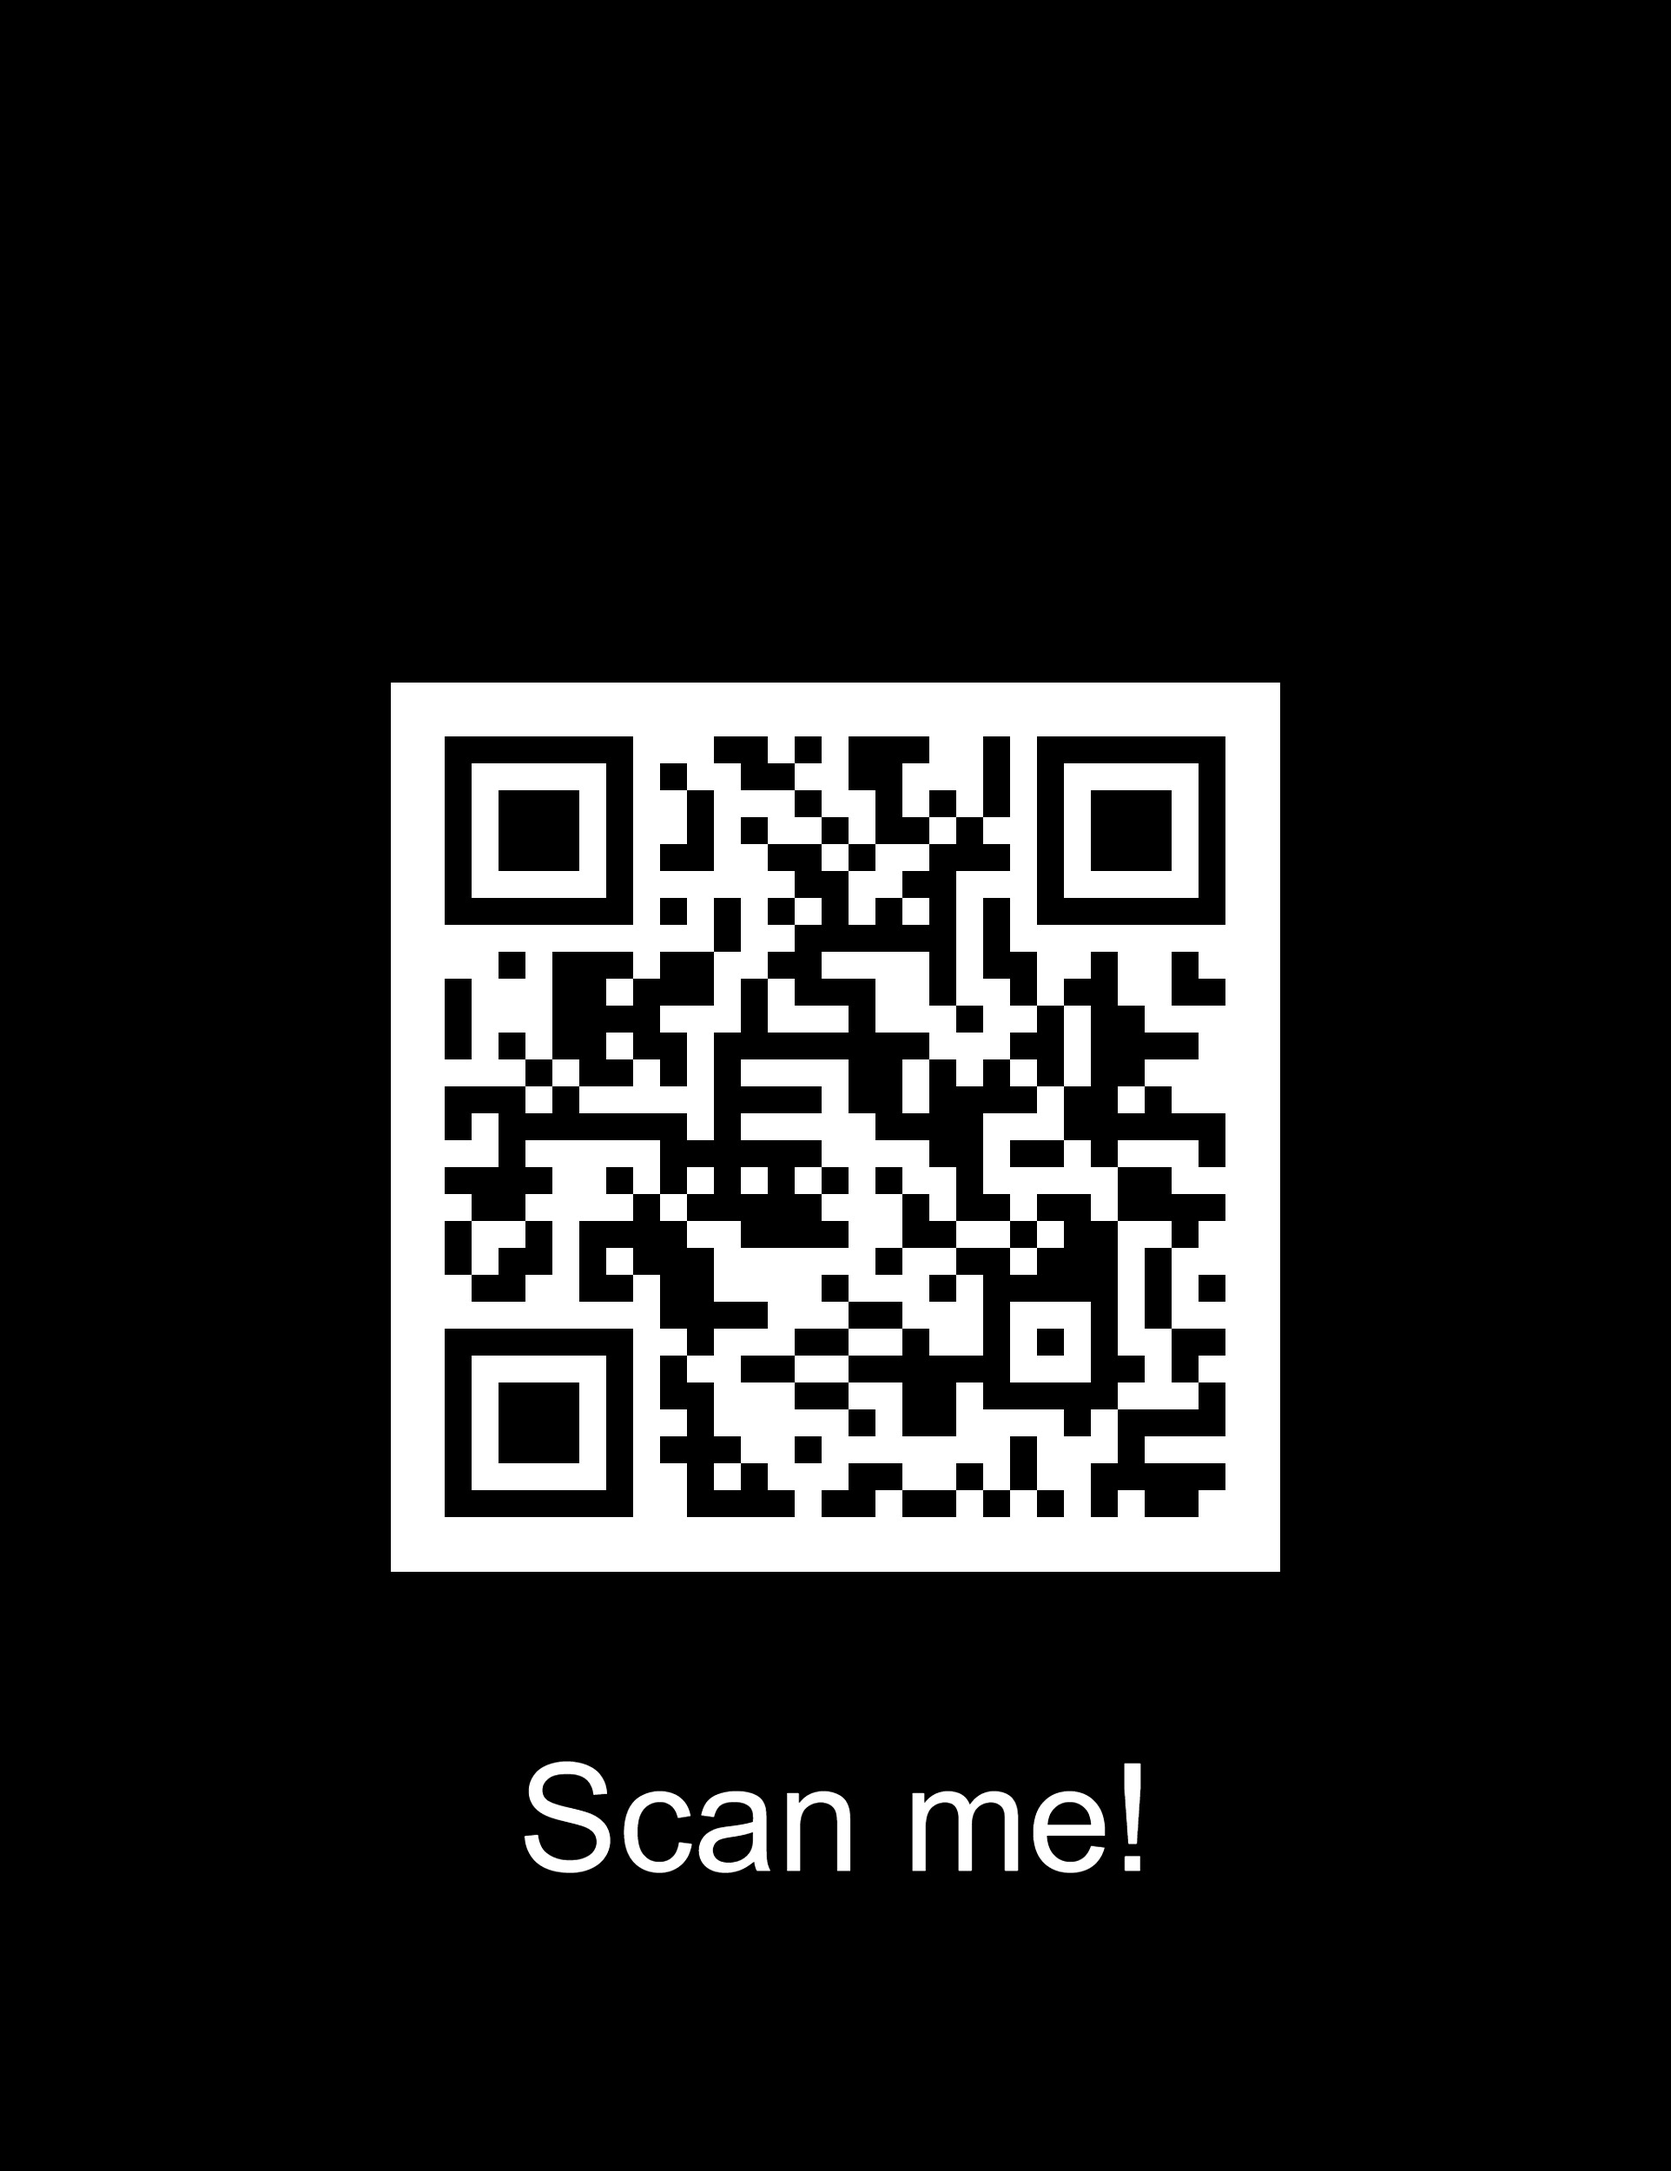
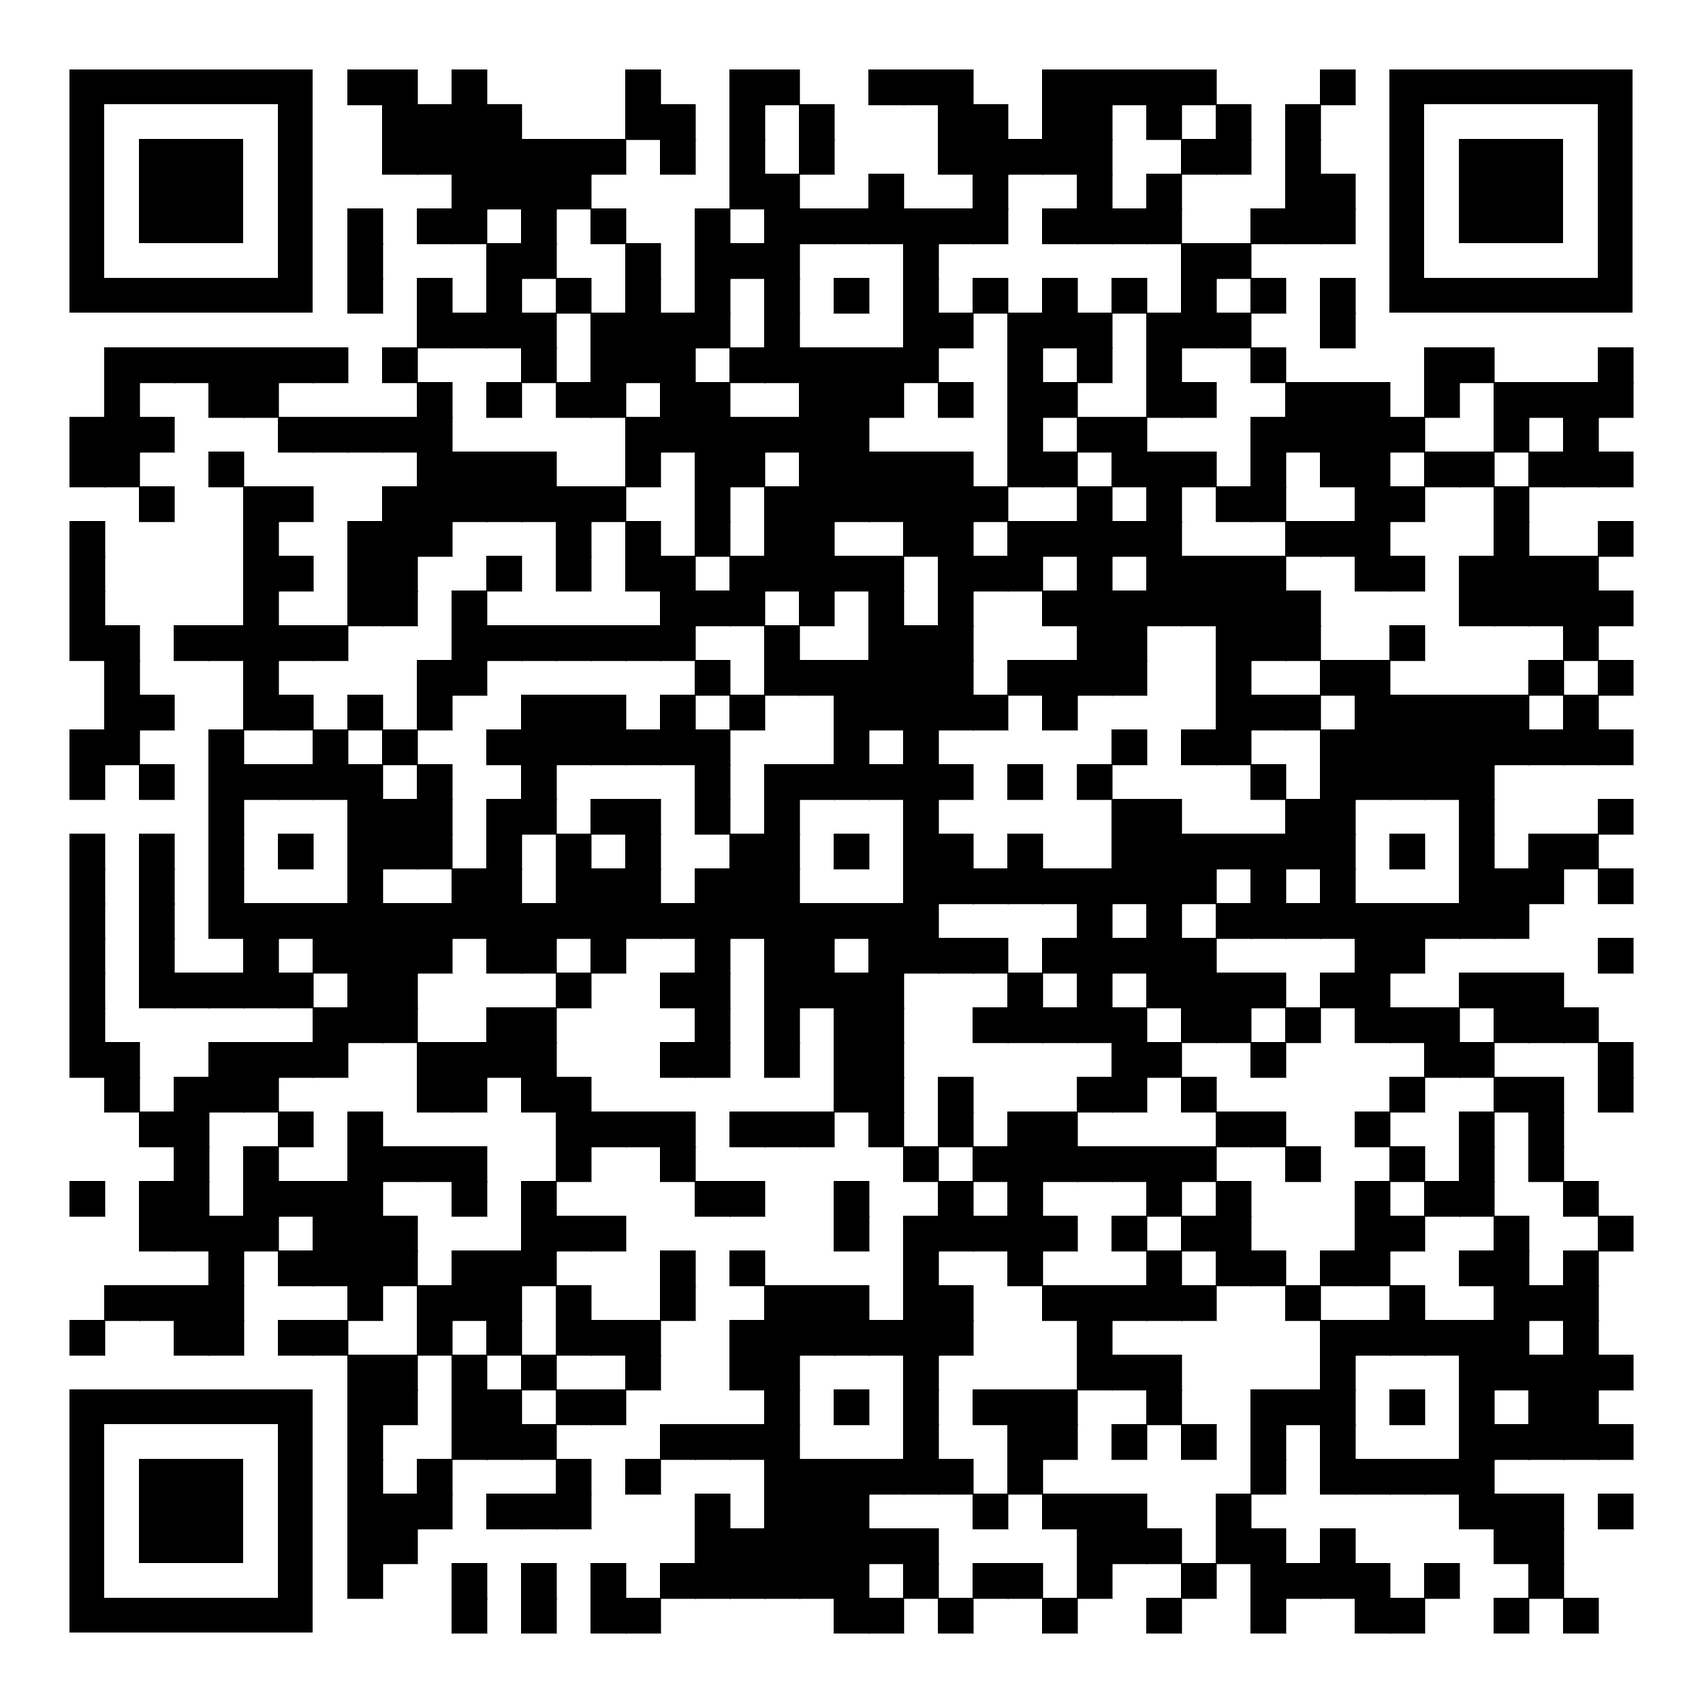
qrcode changes

diff --git a/index.html b/index.html
@@ -99,7 +99,7 @@
           }
         ],
         "sameAs": [
-          "https://www.instagram.com/starhalalmeat",
+          "https://www.instagram.com/star_halal_0786/",
           "https://www.swiggy.com/direct/brand/763324?source=swiggy-direct&subSource=generic"
         ],
         "aggregateRating": {
@@ -1789,7 +1789,7 @@
         <a href="tel:+919999999999">+91 9205955696</a>
       </address>
       <div class="footer-social">
-        <a href="https://instagram.com/starhalalmeat" target="_blank" rel="noopener" aria-label="Star Halal Meat Shop on Instagram">
+        <a href="https://www.instagram.com/star_halal_0786/" target="_blank" rel="noopener" aria-label="Star Halal Meat Shop on Instagram">
           <svg width="15" height="15" viewBox="0 0 24 24" fill="none" stroke="currentColor" stroke-width="1.5" aria-hidden="true"><rect x="2" y="2" width="20" height="20" rx="5"/><path d="M16 11.37A4 4 0 1 1 12.63 8 4 4 0 0 1 16 11.37z"/><line x1="17.5" y1="6.5" x2="17.51" y2="6.5"/></svg>
           @starhalalmeat
         </a>
